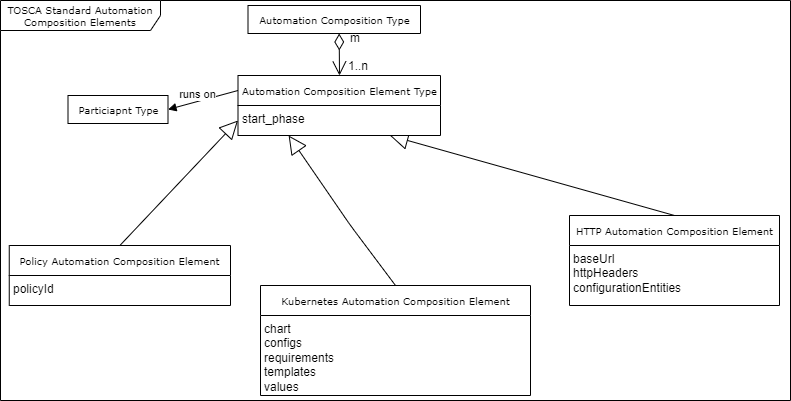
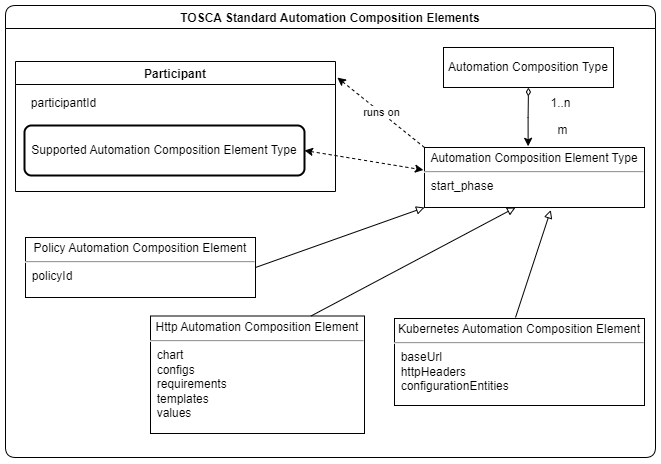
Update Defining Automation Compositions in TOSCA for CLAMP
Update "Defining Automation Compositions in TOSCA for CLAMP" doc

Issue-ID: POLICY-4612

diff --git a/docs/clamp/acm/defining-acms.rst b/docs/clamp/acm/defining-acms.rst
@@ -9,6 +9,10 @@ Defining Automation Compositions in TOSCA for CLAMP
 .. contents::
     :depth: 4
 
+- **Automation Composition:** A set of elements working together to deliver a feature or function.
+- **Automation Composition Type Definition:** A formal definition of a type of an Automation Composition in the TOSCA modelling language (described in JSON or YAML), which specifies the type and properties of elements that make up an Automation Composition and the types of participants that host those elements
+- **Automation Composition Type:** An Automation Composition type, which has been created (commissioned) in the ACM runtime server
+- **Automation Composition Instance:** An instance of an Automation Composition Type, which as been created in the ACM runtime server. The elements of an Automation Composition Instance run on participants. The collection of all the Automation Composition Element Instances make up an Automation Composition Instance.
 
 A Automation Composition Type is defined in a TOSCA service template. A TOSCA Service Template has
 two parts: a definition part in the service template itself, which contains the definitions
@@ -59,6 +63,12 @@ TOSCA Standard Automation Composition Elements
 .. image:: images/defining-acms/standard-acme.png
   :width: 600
 
+- **Automation Composition Element Type Definition:** A formal definition of a type of an Automation Composition element in an Automation Composition Type Definition.
+- **Automation Composition Element Type:** An Automation Composition element type in an Automation Composition type, which has been created (commissioned) in the ACM runtime server
+- **Automation Composition Element Instance:** An instance of an Automation Composition Element, which can run on an Participant
+- **Participant:** A component that agrees to run elements of Automation Compositions. Therefore, participants agree to be part of Automation Composition Instances. Participants of a particular type can run Automation Composition Elements of specific types.
+
+
 1.2.1 Policy Automation Composition Element
 ~~~~~~~~~~~~~~~~~~~~~~~~~~~~~~~~~~~~~~~~~~~
 
@@ -102,7 +112,7 @@ of the Kubernetes Automation Composition Element and Kubernetes Participant,plea
 
 Properties are used to define the configuration for Automation Compositions and Automation Composition Elements.
 At design time, the types, constraints, and descriptions of the properties are specified.
-The values for properties are specified in the CLAMP GUI at runtime. TOSCA provides support
+The values for properties are specified in Automation Composition Instance. TOSCA provides support
 for defining properties, see `Section 3.6.10: TOSCA Property Definition
 <https://docs.oasis-open.org/tosca/TOSCA-Simple-Profile-YAML/v1.3/os/TOSCA-Simple-Profile-YAML-v1.3-os.html#DEFN_ELEMENT_PROPERTY_DEFN>`_
 in the TOSCA documentation.
@@ -116,20 +126,17 @@ Composition Element, or a Participant.
 **TOSCA Property Type:** The TOSCA definition of the type of a property. A property can have
 a generic type such as string or integer or can have a user defined TOSCA data type.
 
-**TOSCA Property Value:** The value of a Property Type. Property values are assigned at run
-time in CLAMP.
+**TOSCA Property Value:** The value of a Property Type.
 
 **Common Property Type:** Property Types that apply to all instances of a Automation Composition Type.
 
-**Common Property Value:** The value of a Property Type. It is assigned at run time once for
+**Common Property Value:** The value of a Property Type. It is assigned in Automation Composition Definition once for
 all instances of a Automation Composition Type.
 
-**Instance Specific Property Type:** Property Types that apply to an individual instance of
-a Automation Composition Type.
+**Instance Specific Property Type:** Property Types that apply to all instances of a specific Automation Composition Type.
 
 **Instance Specific Property Value:** The value of a Property Type that applies to an
-individual instance of a Automation Composition Type. The value is assigned at run time for each
-automation composition instance.
+individual instance of a Instance Specific Property Type. The value is assigned in Automation Composition Instance.
 
 Automation Composition Properties can be *common* or *instance specific*. See Section 2 of
 :ref:`TOSCA Defined Automation Compositions: Architecture and Design <acm-capabilities>`
@@ -234,7 +241,7 @@ one for the Kubernetes microservice, one for the policy and one or the REST conf
 We use a TOSCA Topology Template to specify a Automation Composition definition and the definitions of
 its Automation Composition Elements. Optionally, we can specify default parameter values in the TOSCA
 Topology Template. The actual values of Automation Composition common and instance specific parameters
-are set at run time in the CLAMP GUI.
+are set in Automation Composition Instance.
 
 In the case of the Gentle Guidance automation composition, we define a Automation Composition Element Node Template
 for each part of the domain logic we are managing. We then define the Automation Composition Node Template
